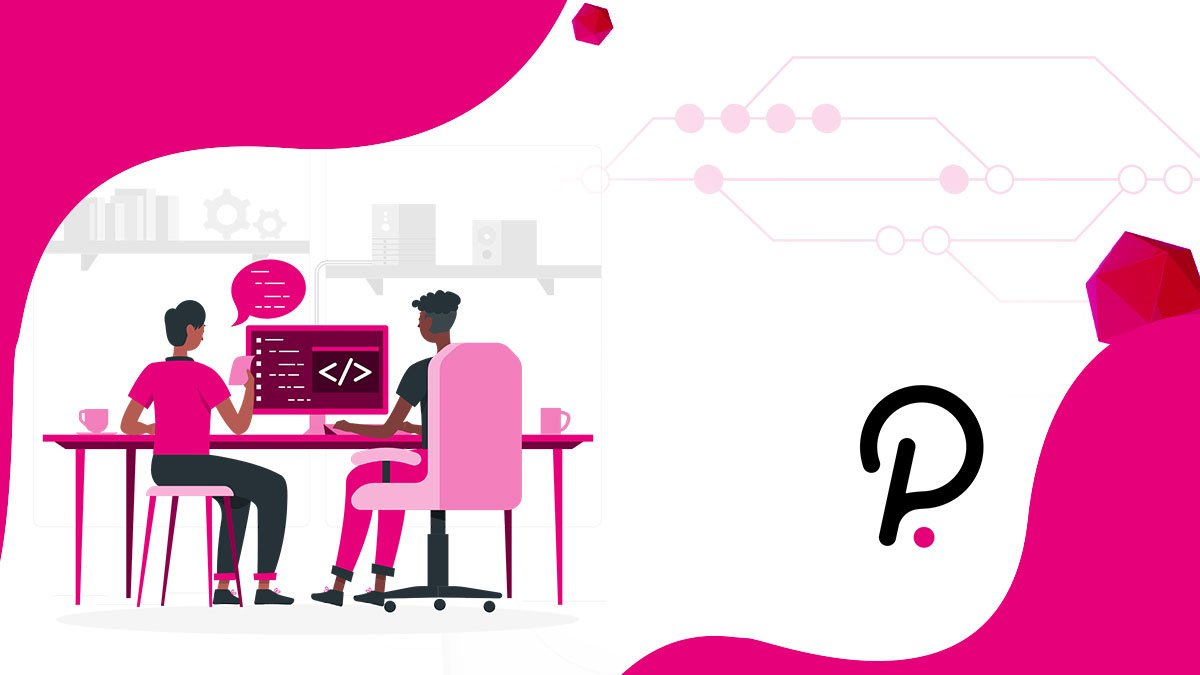
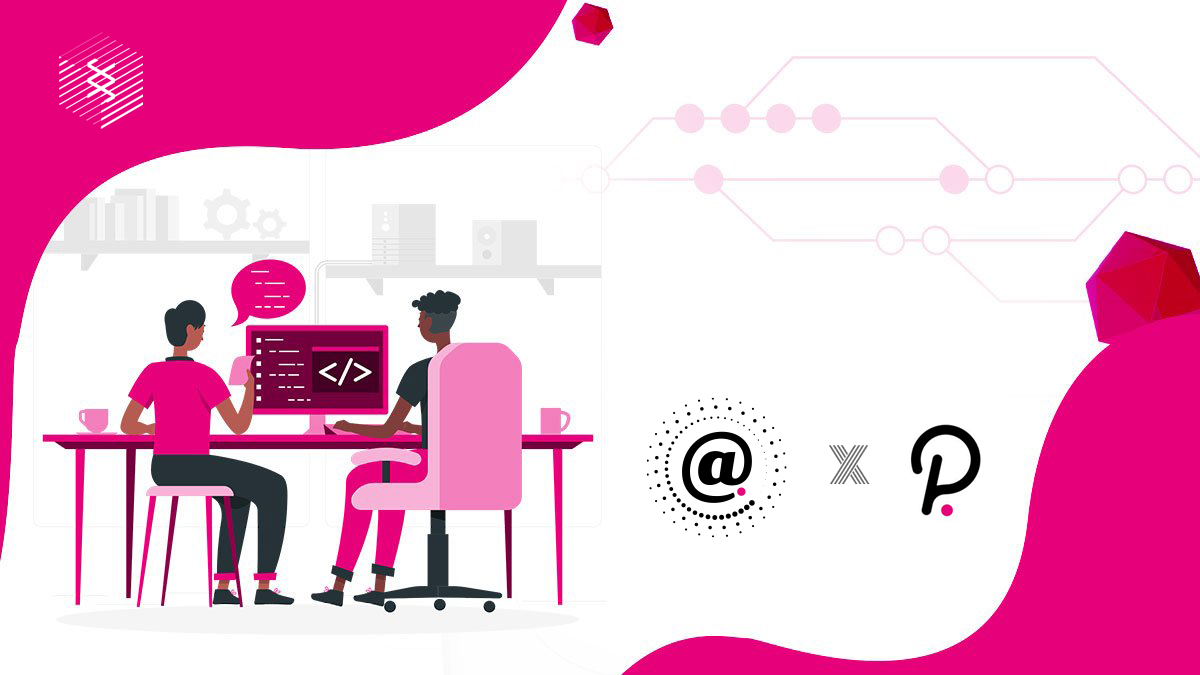
修改首页图片

Changed region(s): [[0.6783, 0.56, 0.8325, 0.8089], [0.555, 0.6222, 0.6475, 0.7778], [0.0308, 0.0622, 0.1233, 0.1867]]

diff --git a/index.html b/index.html
@@ -1040,11 +1040,6 @@
           <div class="md-footer-copyright__highlight">
             ©2020 AoChain Inc. All Rights Reserved.
           </div>
-        
-        Made with
-        <a href="https://squidfunk.github.io/mkdocs-material/" target="_blank" rel="noopener">
-          Material for MkDocs
-        </a>
       </div>
       
     </div>
